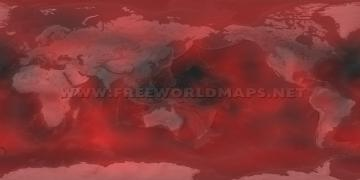
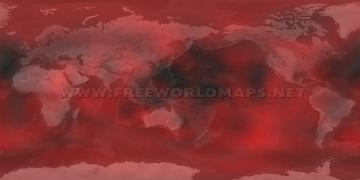
color_map: refactor

diff --git a/color_map/color_map.py b/color_map/color_map.py
@@ -4,25 +4,26 @@ import argparse
 
 import numpy as np
 from skimage.io import imread, imsave
-from skimage.color import gray2rgb, rgb2gray
+from skimage.color import gray2rgb
 from skimage import img_as_float
-from skimage.transform import rotate
 
 import imageio.core.util
 
-from mine_dataset import get_dataset
+from mine_dataset import get_ds
 
 
 parser = argparse.ArgumentParser(description='Creates heat map for specified geoparams')
 parser.add_argument('--lat', nargs=2, type=float, default=[-90.0, 89.0], help='Latitude range')
 parser.add_argument('--lon', nargs=2, type=float, default=[0.0, 359.0], help='Longitude range')
 parser.add_argument('-l', '--level', type=float, default=50.0, help='Depth level')
+parser.add_argument('--name', type=str, default='color_map.jpg', help='Path for the output image')
 args = parser.parse_args()
 
 # Set geoparams from arguments
 lat = tuple(args.lat)
 lon = tuple(args.lon)
 level = args.level
+output_path = args.name
 
 
 def ignore_warnings(*args, **kwargs):
@@ -32,7 +33,7 @@ def ignore_warnings(*args, **kwargs):
 def prepare_ds_shape(ds, world_map_shape):
     """Fill rest space of dataset with zeros to be the same shape as world_map"""
     prepared_ds = np.zeros(world_map_shape, dtype=float)
-    prepared_ds[int(lon[0]):int(lon[1] + 1), int(lat[0] + 90.0):int(lat[1] + 91.0)] = ds
+    prepared_ds[int(lat[0] + 90.0):int(lat[1] + 91.0), int(lon[0]):int(lon[1] + 1)] = ds
     return prepared_ds
 
 
@@ -60,11 +61,10 @@ def main():
     # Read world map
     world_map = imread('world_map.jpg')
     world_map = img_as_float(world_map)
-    world_map = rotate(world_map, angle=90, resize=True)
-    world_map = gray2rgb(rgb2gray(world_map))
+    world_map = gray2rgb(world_map)
 
     # Set waves dataset
-    ds = get_dataset(lat, lon, level)
+    ds = get_ds(lat, lon, level)
     ds = fit_ds(ds)
     ds = prepare_ds_shape(ds, world_map.shape[:-1])
     ds = gray2rgb(ds)
@@ -72,12 +72,11 @@ def main():
 
     # Create output
     blended_map = 0.6 * ds + 0.4 * world_map
-    blended_map = rotate(blended_map, angle=-90, resize=True)
 
     # Save output
-    imsave('color_map.jpg', blended_map)
+    imsave(output_path, blended_map)
 
-    print('Congratulations! Color map was created. Check out color_map.jpg')
+    print(f'Congratulations! The color map was created. Check out {output_path}.')
 
 
 if __name__ == '__main__':

diff --git a/color_map/mine_dataset.py b/color_map/mine_dataset.py
@@ -3,7 +3,7 @@ import re
 import numpy as np
 
 
-def __parse_dataset(content):
+def __parse_ds(content):
     dataset = content.split('\n')
     parsed_dataset = []
 
@@ -16,7 +16,7 @@ def __parse_dataset(content):
     return parsed_dataset
 
 
-def get_dataset(lat, lon, level):
+def get_ds(lat, lon, level):
     lons = [float(i) for i in range(361)]
     lats = [-90.0 + i for i in range(181)]
     levels = [
@@ -38,6 +38,8 @@ def get_dataset(lat, lon, level):
 
     r = requests.get(dataset_url)
     r.raise_for_status()
-    parsed_dataset = __parse_dataset(r.content.decode())
+    parsed_dataset = __parse_ds(r.content.decode())
+    parsed_dataset = np.array(parsed_dataset).astype(float)
+    parsed_dataset = np.transpose(parsed_dataset)
 
-    return np.array(parsed_dataset).astype(float)
+    return parsed_dataset
